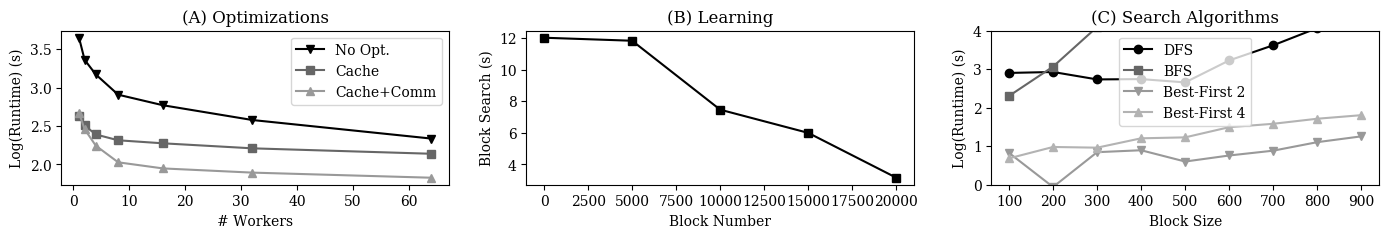
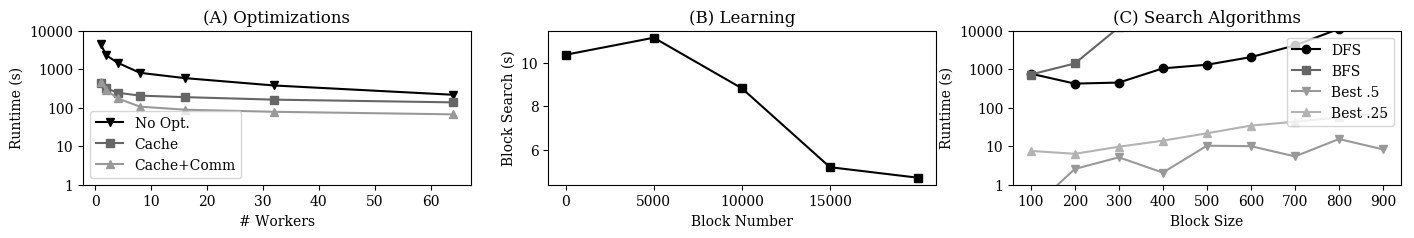
Updates from ShareLaTeX

diff --git a/introduction.tex b/introduction.tex
@@ -1,54 +1,54 @@
 \section{Introduction}\label{intro}\sloppy
 It is widely known that data cleaning is one of the most time-consuming steps of the data analysis process~\cite{nytimes}, and
-designing algorithms and systems to automate or partially automate data cleaning continues to be a rich and active area of research~\cite{DBLP:conf/sigmod/ChuIKW16}.
-What makes data cleaning challenging stems from the fact that real-world data is highly variable: a given dataset can manifest a multitude of different types of errors (e.g., numerical outliers, constraint violations, duplicates, etc), and the types of errors that are worthwhile to clean depends on the down-stream application that uses the cleaned dataset.  The user often does not know which errors even exist in the dataset, and uncovers the errors throughout the cleaning process.
-As the user identifies more errors, she must characterize and organize the errors so that they can be cleaned, and implement the necessary cleaning procedures.
-These observations suggest that any data cleaning system must provide tremendous flexibility so as to not impede this exploratory and iterative process; an ideal cleaning system enables domain experts to leverage their expertise to identify and specify the types of errors in the data at a high level, automatically identifies the appropriate fixes, and generates the cleaning procedures to fix those errors.  
+designing algorithms and systems to automate or partially automate data cleaning continues to be an active area of research~\cite{DBLP:conf/sigmod/ChuIKW16}.
+Automation in data cleaning is challenging because real-world data is highly variable. 
+A single data set can have many different types of data corruption such as statistical outliers, constraint violations, and duplicates.
+Once an error is detected, there is a further question of how to repair this error, which often depends on how the data will be used in the future.
 
-Unfortunately, existing data cleaning systems are still far from this goal, and each only addresses a fraction of the user's needs.
-Automatic cleaning systems devise and execute a cleaning procedure for restricted classes of errors (e.g., outliers~\cite{}, denial constraints~\cite{}, duplicates~\cite{}, etc).  The restrictions enable specialized optimizations and guarantees.  
-Declarative cleaning systems provide languages to implement and efficiently execute cleaning procedures, however the user must still find the errors and picking the appropriate cleaning procedures.
-Unfortunately, this trend towards specialization runs counter to the flexibility needed by modern data cleaning tasks---the overhead to setup, learn, and manage multiple  cleaning systems can easily outweigh their benefits, particularly when the user is uncovering new errors in the interim.    In addition, debugging and end-to-end optimizations become more challenging when managing multiple cleaning systems.
-As a result, a recent survey~\cite{krishnan2016hilda} finds that data cleaning pipelines are often a patchwork of custom scripts and multiple specialized systems; many times, developers eschew data cleaning systems and simply rely on the flexibility provided by scripting languages e.g., Python.  Of course, although scripting is initially fast to write, they quickly become unwieldy to mantain, understand, and improve over time.  
-In short, these limitations make it difficult for non-technical experts to take control of the cleaning process, and for technical experts to rapidly create, tune, debug, and generalize their data cleaning solution to new problem domains~\cite{sculley2014machine,krishnan2016hilda}.
+This variability creates a tension between the needs of the data scientist and the designer of the data cleaning framework.
+While the data scientist might desire a single cleaning framework that addresses all of her data errors and repair operations, from an algorithmic perspective, it is far more efficient to consider more restricted models.
+Data cleaning tools are often highly optimized for particular problems  (e.g., see surveys on statistical outliers~\cite{hellerstein2008quantitative}, enforcing logical constraints~\cite{DBLP:conf/sigmod/ChuIKW16}, entity resolution~\cite{DBLP:journals/pvldb/KopckeTR10}). 
+Consequently, a recent survey suggests that data cleaning pipelines are often a patchwork of custom scripts and multiple specialized systems~\cite{krishnan2016hilda}.
+The overhead to setup, learn, and manage multiple cleaning systems can easily outweigh their benefits.
+Some data scientists eschew automated tools altogether and simply write data cleaning programs from scratch.
+The customized programming approach quickly becomes difficult to mantain and interpret; especially for users without data engineering expertise~\cite{sculley2014machine}.
+
+With the availability of vastly more distributed computing resources, perhaps, the focus on restricted data cleaning models should be reconsidered.
+Recent results in AI, such as AlphaGo~\cite{silver2016mastering}, show that a combination of Machine Learning and massively parallelized search can effectively optimize very complex and general objective functions.
+Data cleaning is very similar to the planning problems considered in AI.
+In planning, the system is given a state space and actions that transition between states, and generates a sequence of actions (a plan) that maximizes a quality function. The classic application is a computer chess program that must plan a sequence of chess moves that change the state of the board in order to maximize the likelihood of a checkmate. Likewise, in data cleaning, one is given a dirty relation and a way to measure data quality (e.g., number of integrity constraints violated), and the data cleaning problem is to find a sequence of modifications to the relation that maximize the data quality.
+
+Most non-trivial planning problems are very hard without good search heuristics.
+Advances in machine learning have made it possible to replace hand-crafted heuristics with automatically learned pruning functions that estimate the expected quality of candidate plans. AlphaGo learned pruning heuristics using a neural network trained on data generated through self-play~\cite{silver2016mastering}. 
+In effect, expertly written heuristics have been replaced with data-driven models, which makes the techniques applicable to a diverse set of applications.   
+This insight is highly relevant to data cleaning, where datasets tend to have structure amenable to learning heuristics adaptively.
+Data errors are often systematic where they are correlated with with certain attributes and values in the dataset~\cite{rekatsinas2017holoclean,DBLP:journals/pvldb/KrishnanWWFG16}.
+Consequently, as more data is cleaned, we can often quickly identify common patterns, which can help prioritize the search on future data.
+
+\sys is a new data cleaning system that is designed around an algorithmic planning architecture. It takes input a continuous-valued {\it quality function} that models the data quality of a relation and a {\it language} of parameterized data cleaning operators, and outputs a sequence of data cleaning transformations (a cleaning program) from the language that seeks to maximize the quality function.  This API imposes minimal restrictions on the quality function, and we show that it can express arbitrary combinations of existing data cleaning formalisms such as functional dependencies, denial constraints, text formatting, and statistical models.  
+\sys also allows for problem-specific optimizations as search pruning rules (e.g., disallowed transformation sequences) or modifications to the data representation (e.g., clustering similar records).  
+In addition to these hard-coded pruning rules, \sys is adaptive and learns to prioritize its search as it cleans more data.
+While AlphaGo used a deep neural network to model the heurisitic, we found that a logistic regression classifier was sufficient. 
+This approach has a number of benefits: (1) users can focus on expressing their application's notion of data quality using the expressive quality function, (2) the output is a transformation sequence rather than a clean database instance that is more interpretable and can be applied to new datasets, and (3) the core algorithm is both simple  ($<500$ lines of Python) and general across different data error domains and problem instances.
+
+ \sys uses a best-first search that greedily appends data transformations to the set of best candidate programs seen so far, and adopts parallelization and pruning ideas from the planning literature.  In contrast to traditional planning, where the search state (e.g., chess board) is compact and largely trivial to parallelize in a distributed setting, the data cleaning search state is the size of the input dataset and introduces a trade-off between communication costs to share intermediate state and the degree of parallelism possible.  We develop a gather-scatter style method to parallelize \sys in a distributed context. 
+ 
+ It is natural to expect that such a general formulation must sacrifice cleaning accuracy, runtime performance, or both.  Our primary technical contribution is to show that neither need be sacrificed. 
+ However, it is important to acknowledge that \sys loses many of the provable properties of the specialized systems.
+Across 7 real-world datasets used in prior data cleaning literature, we show that \sys matches or exceeds the cleaning accuracy and exhibits competitive run-times (provided enough computational resources are available) to state-of-the-art approaches that are specialized to a specific error domain (constraint, statistical, or quantitative errors).  At the same time, \sys generates an interpretable cleaning program that be re-used on new data, and can clean datasets that exhibit errors spanning multiple error domains. 
+\sys highlights an approach to data cleaning where users articulate high level cleaning goals, and the system automatically proposes an interpretable cleaning program.  It is a step towards a unified framework for automatic data cleaning systems, similar in spirit to the relational model, which combined transaction, analytic, graph, machine learning, and other data-intensive applications under a unified specification, optimization, and execution framework.
 
 
 
 
-% Beyond these technical challenges, data cleaning is fundamentally a highly iterative expert-intensive process that relies on the domain expert to define {\it what} it means to be a clean dataset and {\it how} the data is allowed to be cleaned.  For these reasons, it is important that data cleaning systems are designed to make best use of the domain expert's scarce resources.
-
-% Each type of error is often handled by a different class of algorithms, if not, a completely different system.
-% This results in data cleaning systems that are optimized for a narrow set of problems and are not expressive enough to cover all of the errors in manifest in the data.
-
-% Unfortunately, a recent survey suggests that industrial data cleaning approaches are far from this user-centric goal, due to a combination of specialized solutions, system complexity, and solution idiosyncrasies.  First, each type of error is often handled by a different class of algorithms, if not, a completely different system.  This leads to implementation-specific optimizations that are non-trivial to transfer to new classes of data errors.   Second, pipelines are a patchwork of custom scripts and multiple specialized systems~\cite{krishnan2016hilda} taht require considerable technical expertise to understand and stitch together.  Third, many data cleaning systems directly modify the input dataset, whereas in practice, users want more than a clean dataset---they want to understand how the data was cleaned, have control over the types of data cleaning operations that are used, and ultimately clean {\it new} data.  In short, these limitations make it difficult for non-technical experts to take control of the cleaning process, and for technical experts to rapidly create, tune, debug, and generalize their data cleaning solution to new problem domains~\cite{sculley2014machine,krishnan2016hilda}.
-
-In this paper, we propose to reframe data cleaning as a planning and optimization problem.  In planning, the system is given a dsecription of a state space and actions that transition between states, and generates a sequence of actions (a plan) that maximizes a quality function. The classic application is a computer chess program that must plan a sequence of chess moves that change the state of the board in order to maximize the likelihood of a checkmate. Although simple small problems were solvable by exhaustively searching through a manually pruned search space, the general formulation of the problem leads to a tremendously large search space.  For decades, it was unclear whether planning could scale to generate high quality plans for more complex problems such as Go or self-driving cars.
-
-However, we are optimistic about a planning approach to data cleaning based on th erecent success in Go playing (AlphaGo) and self driving cars.  In both applications, their success have been drived by three core innovations.  First, planning algorithms have improved and converged on a varitaino of best-first esarch that works well across many applications~\cite{}.  Second, modern cloud and multicore processing have made it possible to search orders of magnitude more states by exploiting massive parallelization~\cite{}.  Third, and most importantly, advances in machine learning have made it possible to replace hand-crafted pruning rules with automatically learned pruning functions that estimate the expected quality of candidate plans.  In effect, expert rules have been replaced with data-driven models and feature engineering.  For instance, \ewu{example where linear model used for pruning}.  As an extreme, AlphaGo learned pruning heuristics using a neural network trained on data generated by self-play~\cite{alphago}.   
-
-To this end, \sys is a new data cleaning system with a simple yet expressive interface.  It takes input a {\it quality function} that models the data quality of a relation and a {\it language} of parameterized data cleaning operators, and outputs a sequence of data cleaning transformations (a cleaning program) from the language that seeks to maximize the quality function.  This API imposes minimal restrictions on the quality function, and we show that it can express arbitrary combinations of existing data cleaning formalisms such as functional dependencies, denial constraints, text formatting, and statistical models.  In this model, problem-specific optimizations are simply search pruning rules (e.g., disallowed transformation sequences) or modifications to the data representation (e.g., clustering similar records).  This approach has a number of unique benefits: (1) users can focus on expressing their application's notion of data quality using the expressive quality function, (2) the output is a transformation sequence rather than a clean database instance that is more interpretable and can be applied to new datasets, and (3) the core algorithm is both simple  ($<500$ lines of Python) and general across different data error domains and problem instances.
-
-It is natural to expect that such as general formulation must sacrifice cleaning accuracy, runtime performance, or both.  Our primary technical contribution is to show that neither need be sacrificed.  \sys uses a best-first search that greedily appends data transformations to the set of best candidate programs seen so far, and adopts parallelization and pruning ideas from the planning literature.  In contrast to traditional planning, where the search state (e.g., chess board) is compact and trivial to parallelize in a distributed setting, the data cleaning search state is the size of the input dataset and introduces a trade-off between communication costs to share intermediate state and the degree of parallelism possible.  We develop a gather-scatter style method to parallelize \sys in a distributed context.  In addition, we introduce a novel algorithm to learn pruning rules; as \sys runs, it learns characteristics of whether a candidate cleaning program will eventually become high or low quality.  
-
-Across 7 real-world datasets used in prior data cleaning literature, we show that \sys matches or exceeds the cleaning accuracy, and exhibits competitive run-times, to state-of-the-art approaches that are specialized to a specific error domain (constraint, statistical, or quantitative errors).  At the same time, \sys generates an interpretable cleaning program that be re-used on new data, and can clean datasets that exhibit errors spanning multiple error domains. 
 
 
 
 
-% we propose \sys.  We explore the extent to which the same approach applies to data cleaning.  Instead of developing specialized algorithms for each new variety of data model, we should consider a general discrete optimization framework that models almost all data cleaning problems: given a black-box objective function that defines cleanliness, find a sequence of data transformations that maximizes this objective.  The additional logic for the special cases should layered onto the general framework as pruning rules (e.g., disallowed sequences) or modifications to the data representation (e.g., clustering certain records together) to solve specific problem instances more efficiently.  One unique contribution of this paper, inspired by AlphaGo, is that search heuristics are learned from the data to avoid users having to carefully tune the algorithm for each use-case.  As more data is cleaned, the system learns common transformation patterns that can be reused in the future.  The benefits of this approach are: (1) there are few restrictions on what the user can express, (2) the output is a sequence of transformations rather than a clean database instance so the logic of the algorithm is more interpretable and can apply to future data, and (3) it greatly simplifies the solution algorithm since it is not coupled to any particular problem instance.  We present \sys, a new system for data cleaning.  \sys is given an objective function that models the data quality of a relation.  We provide an API that translates existing data cleaning formalisms such as Functional Dependencies, Denial Constraints, Statistical Models into a compatible objective function.  \sys is also given a parametrized set of data cleaning operators that transform relations.  Given these two pieces, the objective and the transformation language, \sys incrementally builds a data cleaning program to optimize objective function.  \sys is initialized with the identity operation and repeatedly expands the most promising sequences seen so far (i.e., composing it with a new transformation from the language).  The expansion policy, or the choice of which sequence to expand and how, is where we can exploit the structure of real-world datasets.  For example, if we clean data in small partitioned blocks (common in many data cleaning systems), we can incrementally build a classifier that can score expansions that are likely to be successful--an approach analogous to that used in AlphaGo~\cite{silver2016mastering}.  Similarly, if we know that the objective was generated from a functional dependency, we can restrict the expansions to only those transformations that modify cells specifically in violation. 
 
-%The goal of our experiments is to show that such an architecture can achieve parity with state-of-the-art constraint, statistical, and quantitative data cleaning systems in terms of accuracy--despite the generality.  On two datasets considered in prior data cleaning work of Flight arrival times and a Physician registry, \sys achieves a similar precision and recall to a recently proposed Denial Constraint system called HoloClean~\cite{rekatsinas2017holoclean}. 
 
-%Similarly, we applied \sys to numerical outlier problems and compared to the Minimum Covariance Determinant (MCD) algorithm, which is the basis of another recent system called Macrobase~\cite{bailis2016macrobase}.  Outliers removed by \sys  improved the accuracy of a downstream predictive models more significantly than MCD (5\% prediction accuracy improvement on the US Census Dataset) and a (4\% on an EEG dataset).  But more importantly, this is achieved with a core codebase of 2000 lines of python code, and readily amenable to aggressive systems optimizations such as parallelization, caching, and incremental maintenance.  In all of our experiments, we present the degree of parallelization need to match the the runtime of a state-of-the-art competitor.
 
-\sys highlights an approach to data cleaning where users articulate high level cleaning goals, and the system automatically proposes an interpretable cleaning program.  It is an attempt towards a unified, error-agnostic framework for automatic data cleaning systems, similar in spirit to the relational model, which combined transaction, analytic, graph, machine learning, and other data-intensive applications under a unified specification, optimization, and execution framework.
 
-% Similar to the way that the relational model provides a unified specification, analysis, and optimization framework for disparate classes of data-intensive application  (e.g., transactions, analytics, graphs, machine learning), \sys is an attempt at a unified framework for (semi-)automatic data cleaning.
-
-It is important to note that there are clear limitations in this design.
-In some sense, \sys trades off generality for runtime, and it is clearly slower than specialized data cleaning without significantly more resources.
-Second, \sys sacrifices many of the provable properties achieved in specialized systems (e.g., constraint satisfaction). 
-However, our experiments suggest that in practice \sys is comparable or better in terms of accuracy than specialized cleaning systems, can meet competitive run times to those systems with sufficient parallelization. In addition, we believe the high level interface significantly reduces the human burden in data cleaning for modern data science applications, enabled by the substantial parallelization opportunities brought by the cloud. 
 
 
 

diff --git a/experiments.tex b/experiments.tex
@@ -71,7 +71,7 @@ Physican	&37k&10&1.0&0.84& 3.2hrs\\
 \begin{figure}
     \centering
     \includegraphics[width=\columnwidth]{exp/exp2.png}
-    \caption{\ewu{REMOVE NO CLEAN FROM PLOT} We evaluate \sys on a quantitative data cleaning task by cleaning a dataset prior to training a random forest classifier model. The system is allowed to clip outliers or set them to a default value. (A) reports the resulting classifier accuracy improvements as compared to outlier detection algorithms (MCD,dBoost) and \sys with only a single transform template (DO).  (B) reports the runtimes.  \label{exp2a}}
+    \caption{We evaluate \sys on a quantitative data cleaning task by cleaning a dataset prior to training a random forest classifier model. The system is allowed to clip outliers or set them to a default value. (A) reports the resulting classifier accuracy improvements as compared to outlier detection algorithms (MCD,dBoost) and \sys with only a single transform template (DO).  (B) reports the runtimes.  \label{exp2a}}
 \end{figure}
 
 \subsubsection{Quantitative Data Cleaning}
@@ -124,13 +124,37 @@ We now evaluate cleaning on the stock dataset~\cite{data-flights} from 55 differ
  \label{fig:microbenchmarks}}
 \end{figure*}
 
+\subsection{Combinations of Errors}
+In the next experiment, we consider a dataset that contains many different error types.
+The Global Terrorism Database is a dataset of terrorist attacks scraped from news sources since 1970.
+Each record contains the date, location, details about the attack, and the number of fatalities and injuries.
+
+This dataset contains a number of inconsistencies that make analysis difficult.
+(1) It has a substantial number of duplicates, where records that refer to the same terrorist incident are marked as separate records.
+(2) A number of missing values in the fatalities and injuries numbers in the dataset are encoded as zeros.
+(3) There are inconsistencies in the location information.
+
+Error type (1) is best handled with a blocking and matching entity matching approach. Error type (2) is best handled with an outlier detector, where outliers are replaced with null values. Error type (3) is best addressed by a Functional Dependency.
+Figure \ref{exp7a}a shows how each individual system is not sufficient to clean the data.
+For (1) and (3), we coded a specialized algorithm in Python to address those errors.
+For (2), we used the dBoost library.
+\sys can model all of these in a single framework and can get the best combined performance.
+\sys achieves the highest precision and recall.
+\sys also achieves a competitive runtime to using all of the different system and accounting for data transfer time between them.
+
+\begin{figure}
+    \centering
+    \includegraphics[width=\columnwidth]{exp/exp7.png}
+    \caption{The Global Terrorism Database is a dataset of terrorist attacks scraped from news sources since 1970. (A) Shows that \sys can integrate many different forms of cleaning that were previously handled by disparate systens, (B) \sys achieves a competitive runtime to using all of the different system and accounting for data transfer time between them. \label{exp7a}}
+\end{figure}
+
 \subsection{\sys In Depth}
 This subsection studies the key parameters that affect \sys's accuracy and runtime, the robustness of its cleaning programs, and its algorithmic properties.
 
 \subsubsection{Algorithmic Sensitivity}
 We use the FEC experiment setup to study how \sys's system parameters affect its ability to quickly generate cleaning programs. 
 
-\stitle{Block-wise CLeaning} Partitioning the dataset into smaller blocks effectively reduces the problem complexity.  This can have tremendous performance benefits when each block exhibits very few errors that are independent of the other blocks.  \Cref{fig:microbenchmarks}a shows the performance benefits when varying the block size; we define the blocks by partitioning on three different attributes that have different domain sizes.  Reducing the block size directly improves the runtime; the search is effectively non-terminating when blocking is not used.    
+\stitle{Block-wise Cleaning} Partitioning the dataset into smaller blocks effectively reduces the problem complexity.  This can have tremendous performance benefits when each block exhibits very few errors that are independent of the other blocks.  \Cref{fig:microbenchmarks}a shows the performance benefits when varying the block size; we define the blocks by partitioning on three different attributes that have different domain sizes.  Reducing the block size directly improves the runtime; the search is effectively non-terminating when blocking is not used.    
 
 \stitle{Language} \Cref{fig:microbenchmarks}b fixes the input to a single block, and evaluates the runtime based on the size of the language $|\Sigma|$.  Increasing the transformations increases the branching factor of the search problem. The search time is exponential in the language, however \sys's learning optimization can identify a pruning model that reduces the runtime to linear.
 
@@ -198,4 +222,3 @@ The single threaded No Opt setting runs in $4432$s, and the materialization opti
  \caption{(A) We compare three baseline implementations for scalability: (No opt.) a vanilla best-first search, (Cache) best-first search + materialization, (Cache+Comm) best-first search and reducing the communication with the algorithm described in the paper. (B) illustrates the effect of learning a search heuristic. (C) best-first search is much more effective than a BFS or DFS search. \ewu{Make sure to update the label for Best-First 2 and 4 to Gamma=0.5 and Gamma=0.25} \ewu{Fix all y-axes}
  \label{fig:opt}}
 \end{figure*}
-

diff --git a/synth.tex b/synth.tex
@@ -84,7 +84,8 @@ For example, suppose  $Q$ is based on functional dependencies and is cell-separa
 \stitle{Block-wise Cleaning} 
 A major cost is that independent errors in the relation must be cleaned sequentially in the search algorithm.  For instance, records 2, 3, and 4 in~\Cref{ex1} exhibit independent errors and a fix for a given record does not affect the other records.  Thus, if each record were cleaned in isolation, the search space would be $O(|\Sigma|)$.  Unfortunately, the entire relation requires a program of three transformation to fix the records, which increases the search space to $O(|\Sigma|^3)$.
 
-The main insight in block-wise cleaning is that many errors are local to a small number of records.  In these cases, it is possible to partition $R$ into a set of blocks $B_1,\cdots,B_m$, execute the search algorithm over each block independently, and concatenate their programs to generate the final cleaning program.  This gather-scatter approach can exponentially reduce the search space for each block, and reduces the cost of evaluating super-linear quality functions that require e.g., computing a pair-wise similarity scores for the input relation.    For example, quality functions derived from functional dependencies can define blocks by examining the violating tuples linked through the dependency.  Similarly, users can define custom partitioning functions or learn them via e.g., clustering algorithms.  In our current implementation, we \ewu{partition the input relation by cell or row if the quality function is cell or row separable, and XXX}.  \ewu{These simple strategies achieve up to $XXX\times$ run-time improvements on the real-world datasets.}
+The main insight in block-wise cleaning is that many errors are local to a small number of records.  In these cases, it is possible to partition $R$ into a set of blocks $B_1,\cdots,B_m$, execute the search algorithm over each block independently, and concatenate their programs to generate the final cleaning program.  This gather-scatter approach can exponentially reduce the search space for each block, and reduces the cost of evaluating super-linear quality functions that require e.g., computing a pair-wise similarity scores for the input relation.    For example, quality functions derived from functional dependencies can define blocks by examining the violating tuples linked through the dependency.  Similarly, users can define custom partitioning functions or learn them via e.g., clustering algorithms.  In our current implementation, we partition the input relation by cell or row if the quality function is cell or row separable.
+
 
 % so makes >linear pruning costs faster
 % and if cleaning xforms are independent

diff --git a/opts.tex b/opts.tex
@@ -45,7 +45,7 @@ This section describes how Machine Learning can be used to learn a search heuris
 The search algorithms in  most automatic data cleaning frameworks are carefully tuned for a specific quality function or class of quality functions. For example, the chase used in functional dependency resolution does not make an edit to the table unless it enforces at least one tuple's FD relationship. Exploiting the structure of the specific problems allows for a tractable solution technique. Similarly, in entity matching problems, one restricts the search to only matching tuples that are likely to be similar based on some similarity metric.
 These are not static optimizations, i.e., knowing how to prune the search space requires knowing the underlying data or making strong modeling assumptions about the types of transformations used.
 
-\ewu{So you're not training based on how the quality function changes as a program gets longer?  If each training example is simply the program for a block, how many blocks does there need to be?  If the search process isn't doing a great job, does that mean the learned classifier will suck?}
+%\ewu{So you're not training based on how the quality function changes as a program gets longer?  If each training example is simply the program for a block, how many blocks does there need to be?  If the search process isn't doing a great job, does that mean the learned classifier will suck?}
 
 \stitle{Approach}
 \sys executes the search on each block of data.
@@ -57,10 +57,9 @@ It is important to note that this prediction is over the transformations and not
 Internally, \sys uses a Logistic Regression classifier to make this classification. The Logistic Regression is tuned towards False Positives (i.e., keep a bad search branch). This is done by training the model and shifting the prediction threshold until there are no False Negatives. 
 
 
-\stitle{Requirements on Transformations}
-\ewu{Are these actually transformation requirements, or just that there is some way to map each transformation/transformation template into a numeric vector?}
-Suppose we made only the following assumption about the language of transformations used.
-Each transformation consists is described by a fixed-length feature vector in $\mathbb{R}^k$:
+\stitle{Featurization}
+To use this approach, each transformation needs to be featurized.
+Each transformation is described by a fixed-length feature vector in $\mathbb{R}^k$:
 \[
 \textsf{feat}: T \mapsto \mathbb{R}^k 
 \]

diff --git a/main.tex b/main.tex
@@ -221,10 +221,11 @@ We find that \sys achieves these levels for a very reasonable amount of addition
 
 %\bibliographystyle{abbrv}
 
+\fontsize{8.8pt}{9.6pt} \selectfont
 \bibliographystyle{abbrv}
 \bibliography{ref} 
 \scriptsize
-\fontsize{8.8pt}{9.9pt} \selectfont
+
 
 %\input{appendix.tex}
 
